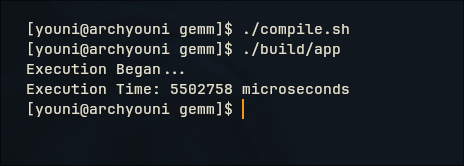
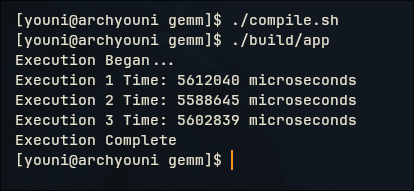
chore: added results and progress update to the readme file

Changed region(s): [[0.029, 0.0602, 0.8696, 0.5723], [0.029, 0.6024, 0.8696, 0.8735]]

diff --git a/src/main.cc b/src/main.cc
@@ -17,10 +17,11 @@ int main()
 
     int repetitions { 0 };
 
-    std::cout << "Execution Began..." << std::flush;
+    std::cout << "Execution Began...\n"
+              << std::flush;
 
     while (repetitions != 3) { // Repeat a few times to get an avg time
-        std::cout << "Execution " << repetitions + 1 << std::endl;
+        std::cout << "Execution " << repetitions + 1 << " Time: " << std::flush;
 
         auto start_time = std::chrono::high_resolution_clock::now();
 
@@ -29,11 +30,13 @@ int main()
         auto end_time = std::chrono::high_resolution_clock::now();
 
         auto duration = duration_cast<std::chrono::microseconds>(end_time - start_time);
-        std::cout << "\nExecution Time: " << duration.count() << " microseconds"
+        std::cout << duration.count() << " microseconds"
                   << std::endl;
 
         ++repetitions;
     }
+
+    std::cout << "Execution Complete" << std::endl;
 
     return 0;
 }

diff --git a/README.md b/README.md
@@ -15,7 +15,7 @@ Here is my first implementation of the gemm process which works but obviously is
 ![First Prototype](images/implementation1.png)
 <br>
 
-Not only is this implementation a time complexity of O(n^3) which makes it inefficient but it also uses a vector within a vector. My initial thoughts were considering the fact this is matrix multiplication im attempting to implement it would only make sense for the factors being multiplied to be 2D matrices however upon further research I found that this is terrible for the cpu for various reasons.
+This implementation a time complexity of O(n^3) which makes it inefficient but it also uses a vector within a vector. My initial thoughts were considering the fact this is matrix multiplication im attempting to implement it would only make sense for the factors being multiplied to be 2D matrices however upon further research I found that this is terrible for the cpu for various reasons.
 
 1. With "vector<vector<int>>" the issue is that the outer vector just holds memory addresses, and each of these addresses points to an inner vector representing a row, which is located somewhere else within the heap memory.
 
@@ -33,10 +33,10 @@ The solution is to flatten the grid, since the computers ram is not like a grid 
 
 ![Moved to a 1D matrix to "trick" the cpu in a way](images/implementation2.png)
 
-Now it is better for the cpu as the data is stored contiguosly instead of scattered accross the heap. I have now implemented the baseline single-precision matrix multiplication (gemm). 
+Now it is better for the cpu as the data is stored contiguosly instead of scattered accross the heap.
 
-For a matrix size of 1024x1024, the unoptimized triple-loop prototype running on the contiguous 1D layout completed in around 5x10^6 microseconds accross multiple runs.
+The baseline execution time averages approximately $5.6$ seconds per run. This high latency highlights the inefficiency of the naive $O(n^3)$ algorithm and confirms the urgent need for cache blocking, vectorization, and parallelization.
 
-While storing the data contiguously avoids pointer chasing and cache misses compared to a std::vector<std::vector<float>>, this naive O(n^3) implementation still suffers from poor cache reuse and lacks vectorization. Future iterations will introduce tiling, SIMD, and multithreading to drastically improve performance.
+![The Results after running 3 tests with the same values and matrices](images/implementation3.png)
 
-![Result of running the program at this stage on 2 1024x1024 matrices](images/implementation3.png)
+These results serve as the baseline for evaluating subsequent optimization strategies. Future iterations will compare these metrics against OpenBLAS to quantify the performance gains achieved through architectural refinements.
